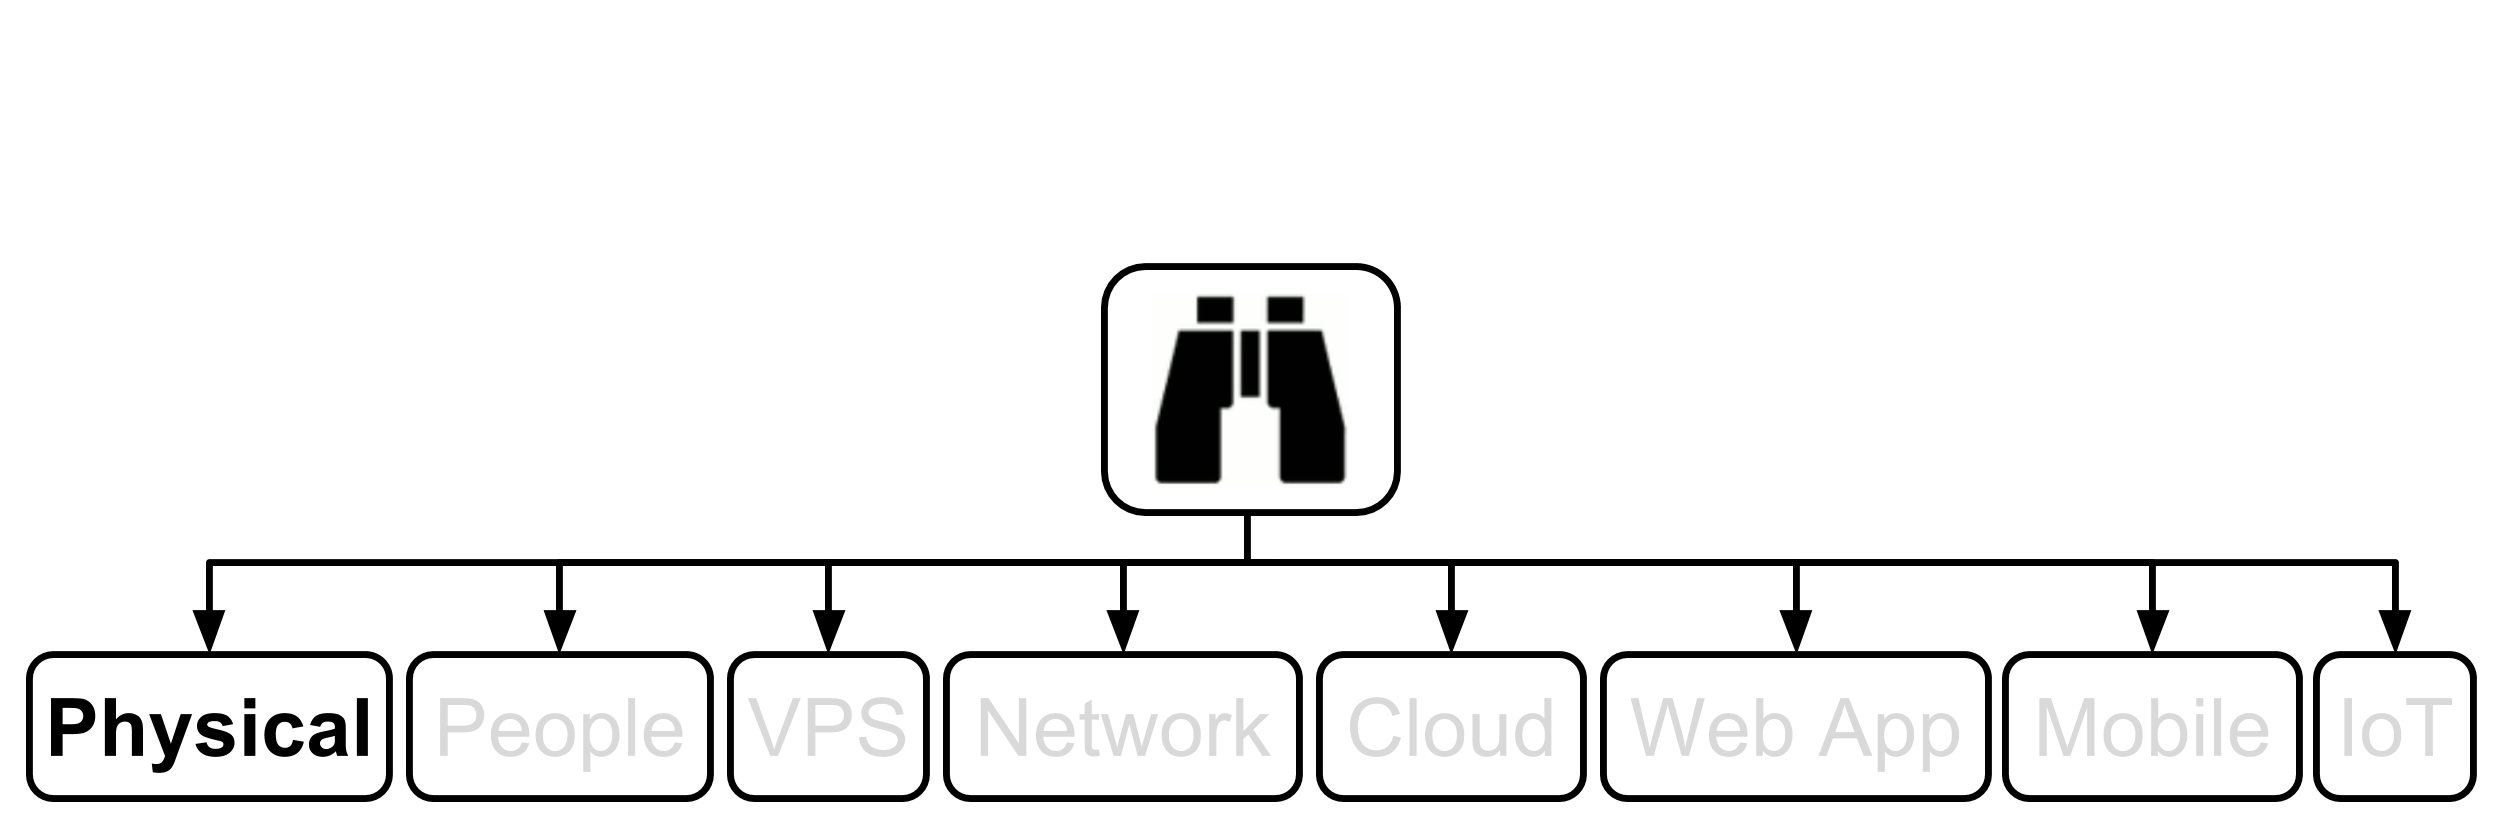
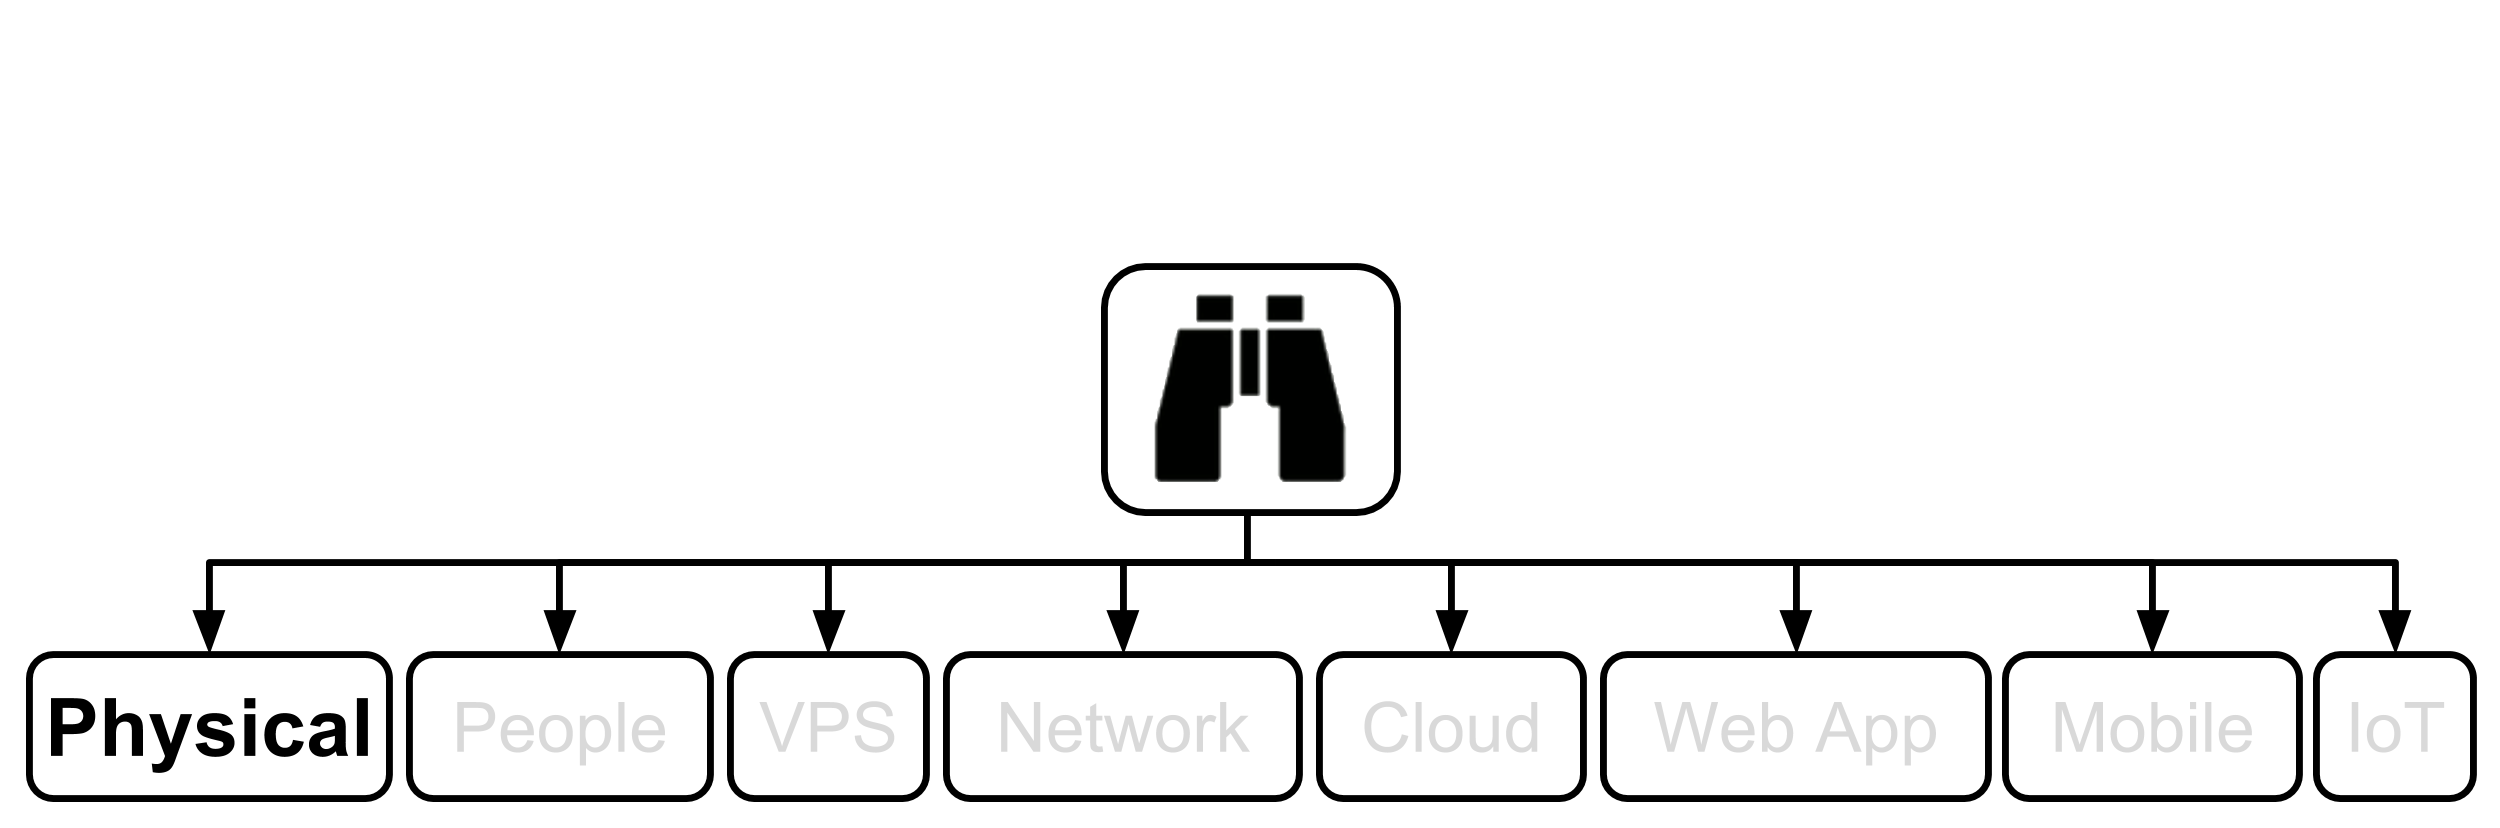
Upgraded the image for People.

diff --git a/manuscript/markdown/main/chapter6.md b/manuscript/markdown/main/chapter6.md
@@ -1,6 +1,6 @@
 # 6. People {#people}
 
-![10,000' view of People Security](images/10000People.gif)
+![10,000' view of People Security](images/10000People.png)
 
 As in the chapter on [Physical](#physical) security, the people problem is often over-looked, not only by technical personnel, but by everyone. For a proficient social engineer (SE), it is easy to craft and execute attacks, although not quite as easy and simple as walking through the front door that has been left open. With a little patience, practise, and the right frame of mind, the majority of people can be played successfully, even those who are very aware.
 
